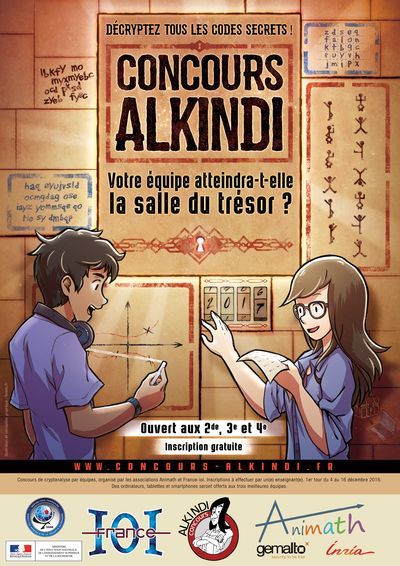
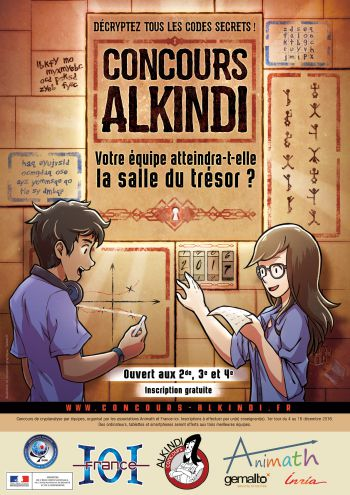
affiche corrigee, nouveau parrain

diff --git a/pageMain.html b/pageMain.html
@@ -35,7 +35,7 @@ changeMenuStyle('Main');
       <br/>
       <h3>Vous êtes enseignant et souhaitez inscrire vos classes ?</h3>
       <p>
-         L'organisation est très simple. Vous pouvez à tout moment devenir coordinateur sur <a href="http://coordinateur.concours-alkindi.fr" target="_blank">coordinateur.concours-alkindi.fr</a>. Vous pourrez créer des groupes au mois de septembre.
+         L'organisation est très simple. Vous pouvez à tout moment devenir coordinateur sur <a href="http://coordinateur.concours-alkindi.fr" target="_blank">coordinateur.concours-alkindi.fr</a>. Vous pouvez inscrire vos élèves jusqu'à la fin du premier tour.
       </p>
       <br/>
       <h3>Vous êtes élève en 2de, 3e ou 4e ?</h3>
@@ -121,9 +121,28 @@ changeMenuStyle('Main');
    </div>
 
 
+      <div>
+      <div class="arabesqueTitle">
+         Le parrain
+      </div>
+           <div style="float:left;padding:10px;padding-right:30px">
+        <img src="images/gerard-berry.jpeg" width="120">
+      </div>
+	  </br>
+      <p>
+	<strong>Gérard Berry</strong> est professeur au Collège de France, où il tient la chaire Algorithmes, machines et langages depuis 2012, après y avoir tenu deux chaires annuelles en 2007-2008 et 2009-2010. Il est également membre de l'Académie des sciences depuis 2002, de l'Académie des technologies depuis 2005,  et lauréat de la médaille d'or du CNRS en 2014. Chercheur à l'Ecole des Mines et à l'Inria depuis 1972 il s'intéresse à la logique mathématique et développe à partir de 1982 le langage de programmation Esterel, qui permet de programmer et de certifier le comportement de systèmes complexes (par exemple programmes qui pilotent les avions).  Entre 2001 et 2009, il est directeur scientifique d'Esterel Technologies, entreprise créée par des chercheurs, avant de rejoinde l'Inria comme directeur de recherche et président de sa Commission d'évaluation. Il participe activement à la promotion de l'informatique.</p>
+
+</br>
+
+<p> Gérard Berry est professeur au Collège de France, où il tient la chaire Informatique et sciences numériques depuis 2012, après y avoir tenu deux chaires annuelles en 2007-2008 et 2009-2010. Il est également membre de l'Académie des sciences depuis 2002 et lauréat de la médaille d'or du CNRS en 2014. Membre d'une équipe Inria depuis 1973, il s'intéresse à la logique mathématique et développe à partir de 1980 le langage de programmation Esterel, qui permet de certifier le comportement de systèmes complexes (par exemple les programmes qui pilotent les avions).  Entre 2001 et 2009 il est directeur scientifique d'Esterel Technologies, entreprise créée par des chercheurs. Il participe activement à la promotion de l'informatique.
+      </p>
+	</div>
+
+
+
    <div>
       <div class="arabesqueTitle">
-         Communication
+         L'affiche
       </div>
        <p>
             Pour faire connaître le concours dans votre établissement, n'hésitez pas à imprimer et diffuser notre affiche :

diff --git a/pageWhoAreWe.html b/pageWhoAreWe.html
@@ -40,26 +40,6 @@ changeMenuStyle('WhoAreWe');
       <p>Les responsables de l'organisation du concours sont Mathias Hiron, Razvan Barbulescu et Matthieu Lequesne. Contactez nous à l'adresse <a href="mailto:info@concours-alkindi.fr">info@concours-alkindi.fr</a>.</p>
       <p>&nbsp;</p>
 
-      <h2 class="squareTitle squareTitleGauche">Le parrain du concours</h2>
-      <p align="middle">
-        <img src="images/jacques-stern.jpg" width="120">
-      </p>
-	  </br>
-      <p>
-	<strong>Jacques Stern</strong> est ancien élève de l'Ecole Normale Supérieure (ENS, 1968). Il a obtenu son doctorat à l'Université de Paris 7 (1975) et a été professeur à l'Université de Caen (1979-1986), puis à  l'Université de Paris 7 (1986-1992), et enfin, de 1993 à 2007, professeur à l'ENS et Directeur du Département d'informatique, qu'il a fondé en 1999.
-      </p>
-      <p>
-	Jacques Stern est spécialiste de cryptologie et de sécurité des transactions et des communications électroniques. Il est l’auteur de plus de 100 publications dans des revues scientifiques et d’un livre intitulé « La science du secret » (éditions O. Jacob). Il est titulaire d'une douzaine de brevets. Ses principaux travaux ont porté sur la cryptanalyse et les preuves de sécurité des algorithmes à clé publique, ainsi que sur la conception d'algorithmes de chiffrement adaptés à l’environnement des cartes à microprocesseur.
-      </p>
-      <p>
-	Jacques Stern a été récipiendaire du prix « Lazare Carnot » de l'Académie des sciences en 2003, de la Médaille d'or du CNRS, plus haute distinction scientifique française, en 2006 et du Prix « RSA Data Security » en 2007. En 2008, il a également reçu le prix « Science et Défense ».
-      </p>
-      <p>
-	De 2007 à 2010, Jacques Stern a été président de Agence Nationale de la Recherche (ANR) et aussi président non exécutif de la société Ingenico, fournisseur mondial de solutions de transactions et de paiement sécurisés. 
-      </p>
-      Jacques Stern est actuellement professeur émérite à l'Ecole normale supérieure et membre de l’Autorité de régulation des communications électroniques et des postes (ARCEP), où il a été nommé en 2012.
-      </p>
-
 
       <h2 class="squareTitle squareTitleGauche">La communauté crypto</h2>
 Beaucoup de pôles d'enseignement universitaire et de recherches nous ont écrit pour nous féliciter et nous annoncer leur soutien à ce concours.  

diff --git a/actu.html b/actu.html
@@ -1,6 +1,6 @@
 <ul>
-    <li> Le concours est renouvelé en 2016-2017.
-    <li> Conçu pour les classes de seconde, il est aussi ouvert aux 3e et 4e qui pourront participer officiellement.
-    <li> Les inscriptions sont ouvertes pour les enseignants, sur <a href="http://coordinateur.concours-alkindi.fr">l'interface coordinateur</a>.
-    <li> La nouvelle affiche du concours est disponible (voir plus bas) !
+    <li> Le concours Alkindi est ouvert aux classes de 4e, 3e et Seconde.
+	<li> Le premier tour aura lieu du 5 au 16 décembre.	
+    <li> Il n'est pas trop tard pour vous inscrire ! Inscription par les enseignants via <a href="http://coordinateur.concours-alkindi.fr">l'interface coordinateur</a>.
+    <li> La nouvelle affiche du concours est disponible (voir plus bas).
 </ul>
